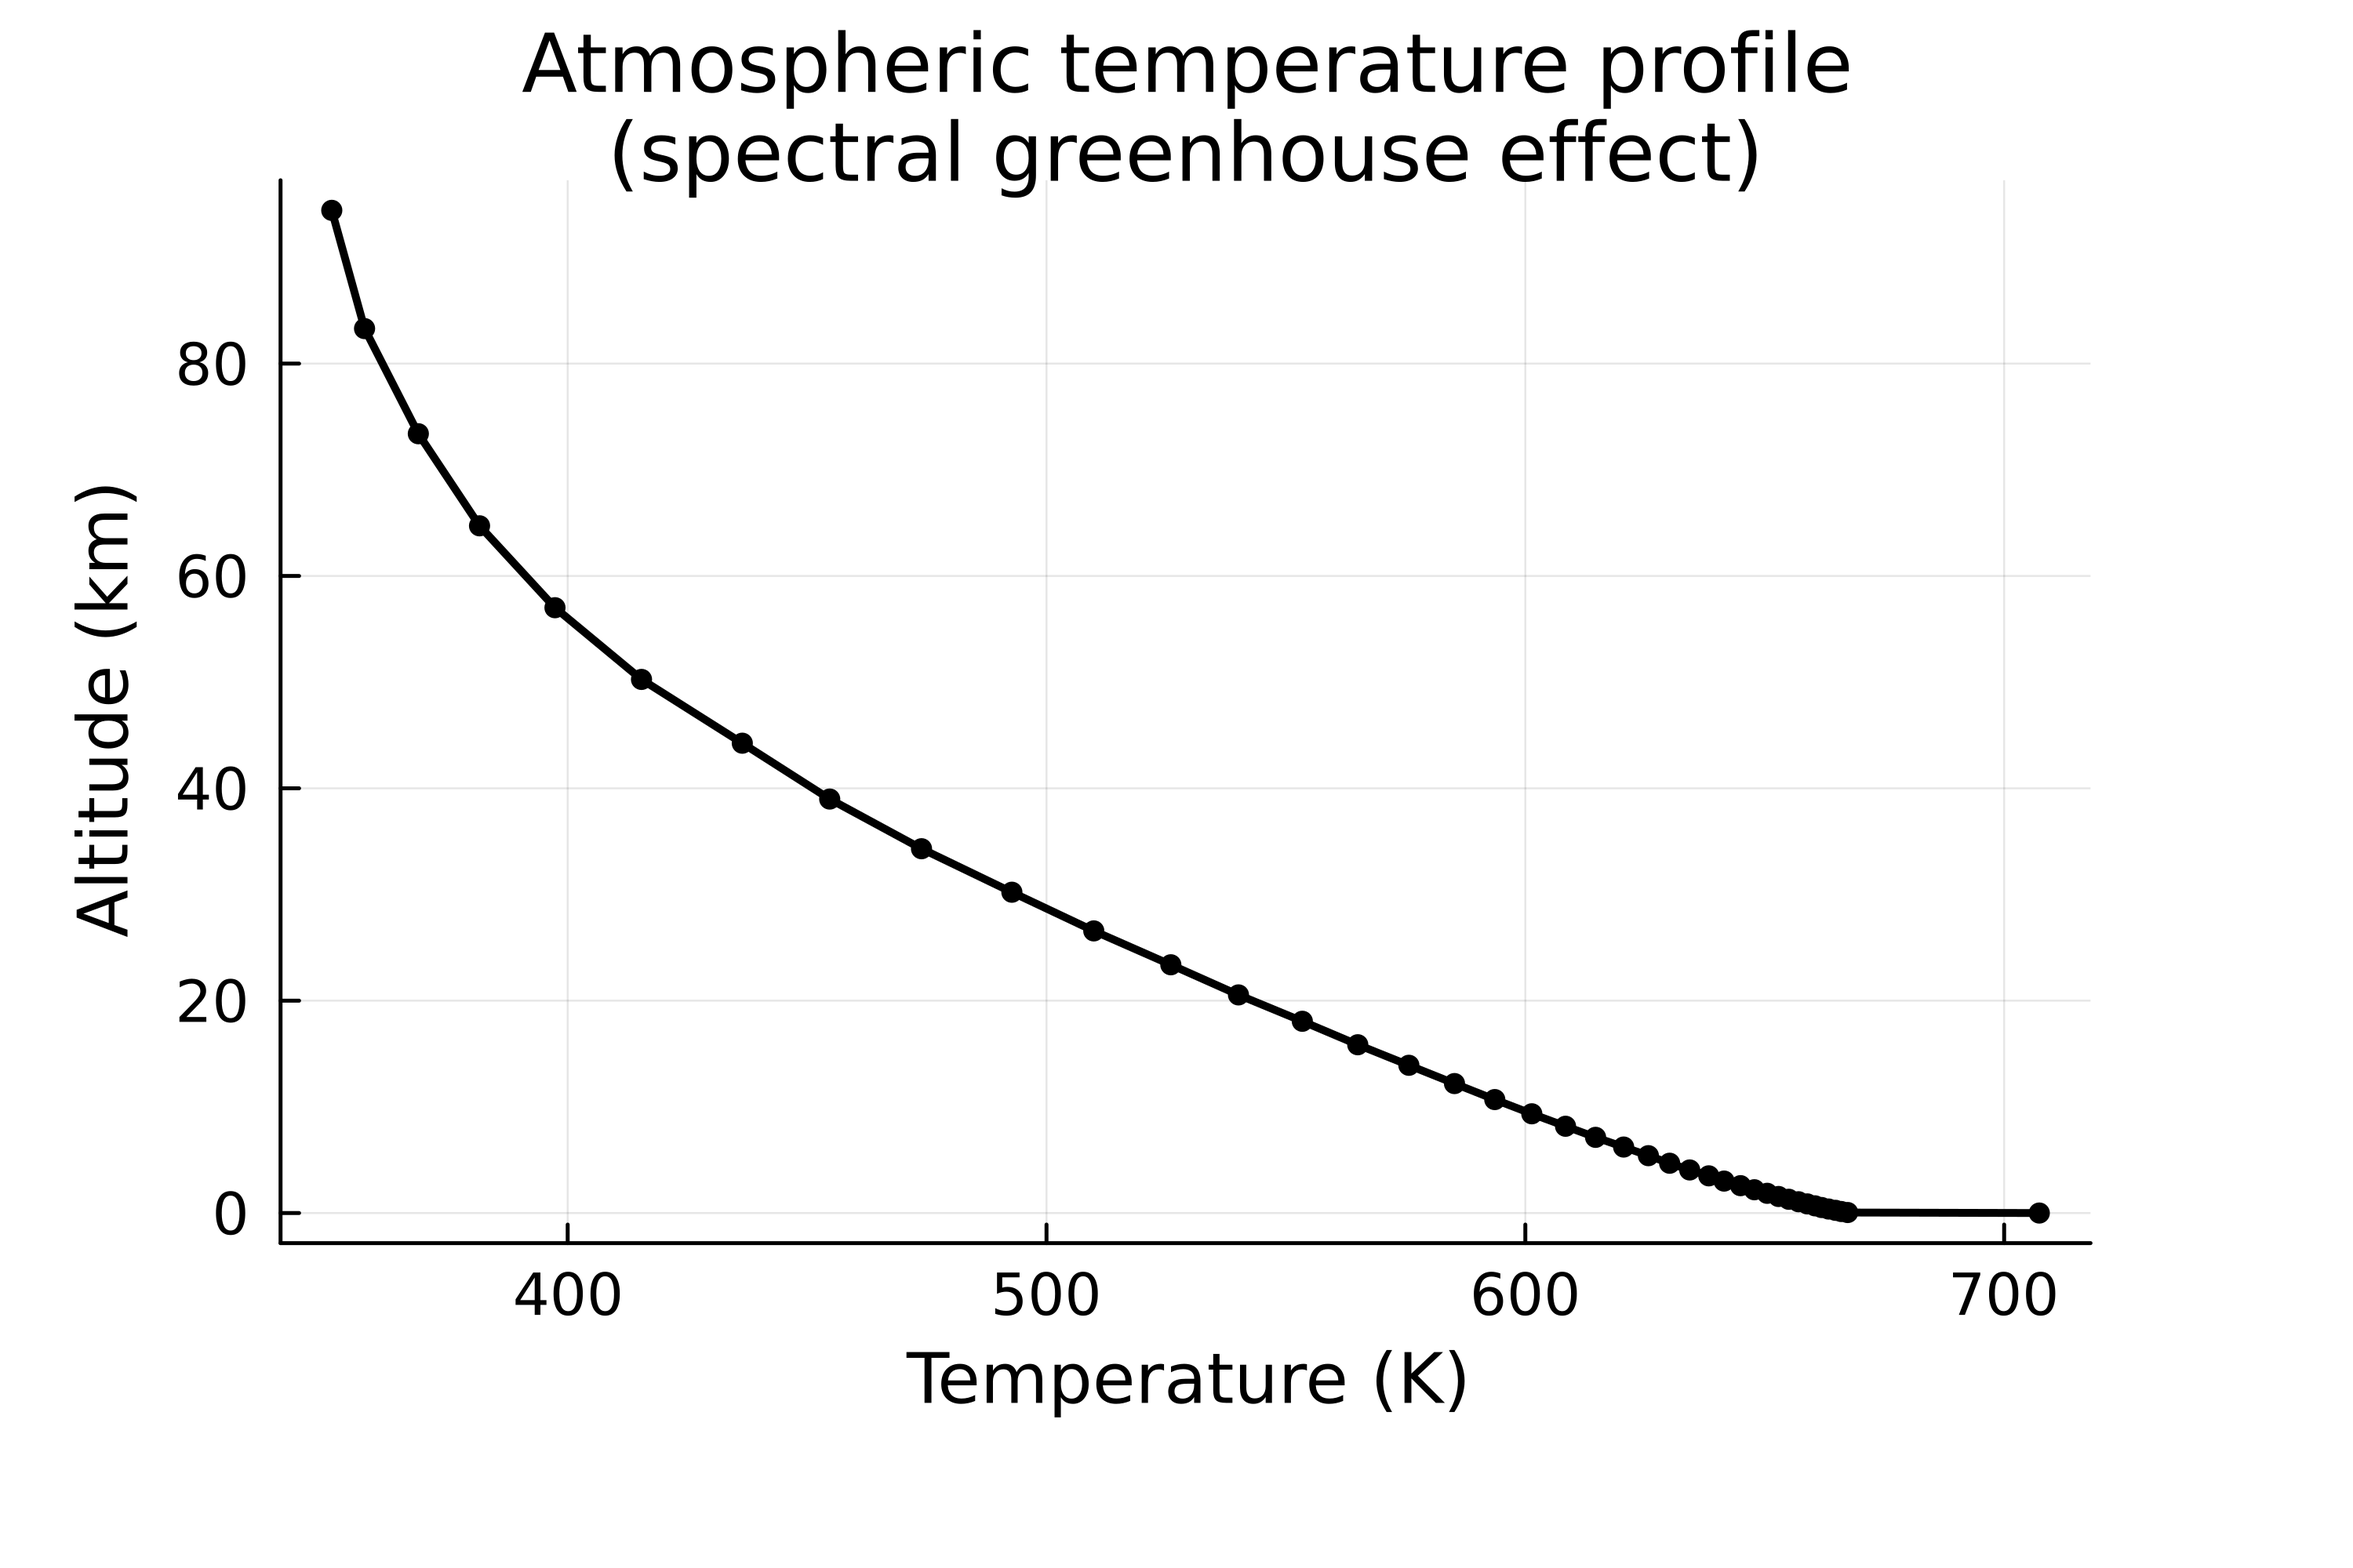
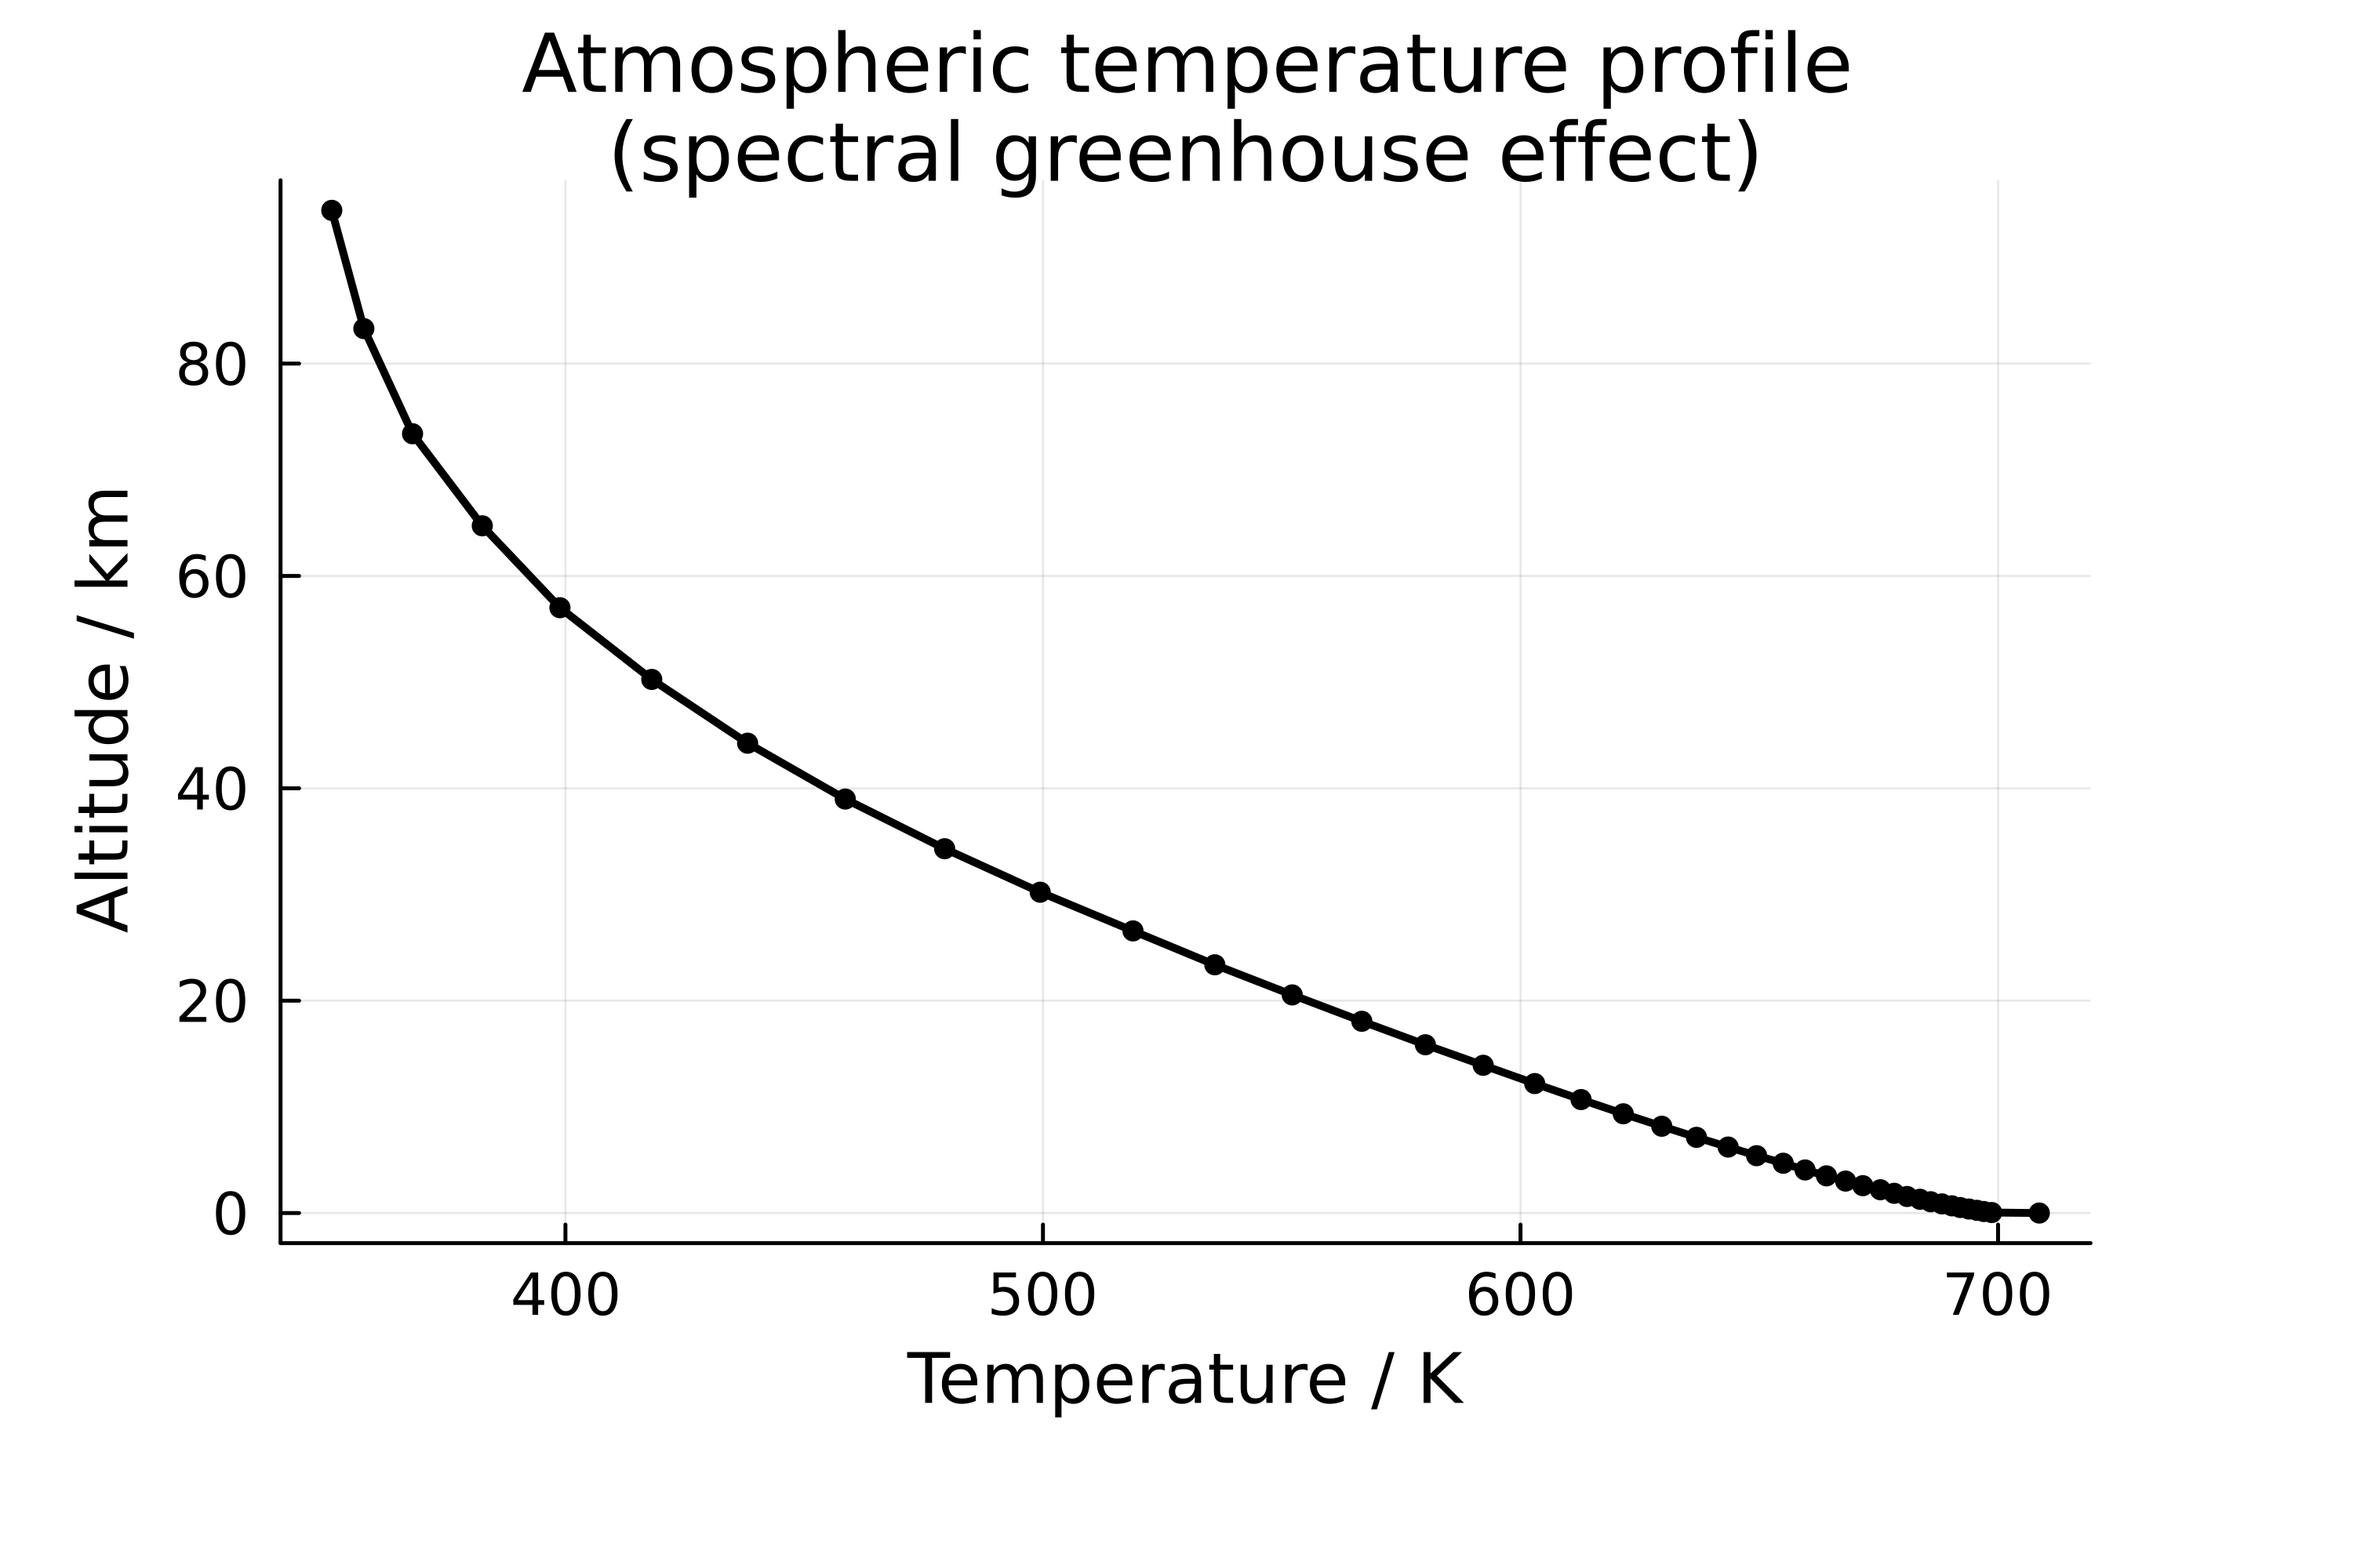
Regenerate spectral greenhouse readme figure + settings
Update the greenhouse atmosphere figure after recent bugfixes.
Furthermore, the readme now follows the instructions from the detected parallel-plate like domain, and uses pure Dykstra smoothing

diff --git a/readme.md b/readme.md
@@ -293,9 +293,9 @@ mesh.wavelength_band_limits = λ_edges; # spectral limits
 ### Step 5: Ray trace and solve
 
 ```julia
-mesh(2_000_000; method = :exchange);
+mesh(2_000_000; method = :exchange, k_dykstra=1000); # opt-in to pure Dykstra smoothing
 solveEquilibrium!(mesh, mesh.F_smooth;
-    max_iters = 10_000, convergence_tol = 1e-15);
+    max_iters = 10_000, convergence_tol = 1e-14);
 ```
 
 Ray tracing is performed independently for each spectral bin, computing separate exchange factor matrices that represent the wavelength-dependent extinction. The spectral equilibrium solver then iterates to find the temperature distribution that simultaneously satisfies energy conservation across all bins.
